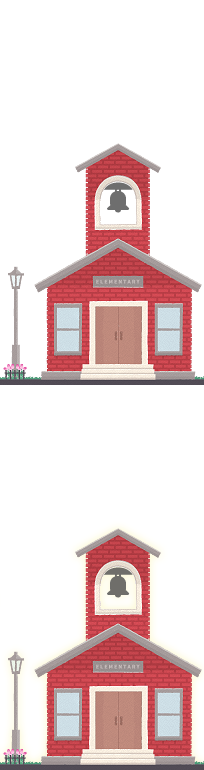
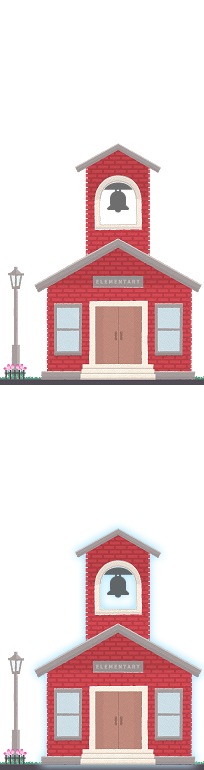
Updated building glow hover. Styled town list. Made scrolling faster.

Changed region(s): [[0.1765, 0.8416, 0.9706, 1.0], [0.3529, 0.6857, 0.8235, 0.8416], [0.0, 0.9662, 0.0294, 0.9974]]

diff --git a/app/stylesheets/non-modular/_info.sass b/app/stylesheets/non-modular/_info.sass
@@ -71,7 +71,7 @@
           float: none
           h3
             //margin-bottom: 31px !important
-            top: 65px !important
+            top: 75px !important
             right: -15px !important
           background: url("shared/redesign/building-right.png") no-repeat 0px 0px
           overflow: hidden
@@ -213,14 +213,25 @@
           cursor: pointer
       .state
         height: 40px
+        display: none
         //margin-top: 20px
       .town, .lists
         //height: 320px
-        height: 245px
+        height: 310px
         //position: absolute
         //bottom: 25px
       .lists
-      
+        li
+          line-height: 24px
+          font-size: 18px
+          color: #555
+          border-bottom: 1px dotted #ddd
+          padding: 8px
+          &:hover
+            background-color: #eee
+        li.current
+          background-color: $blue
+          color: white
       .red-button
         margin-top: 25px
         cursor: pointer
